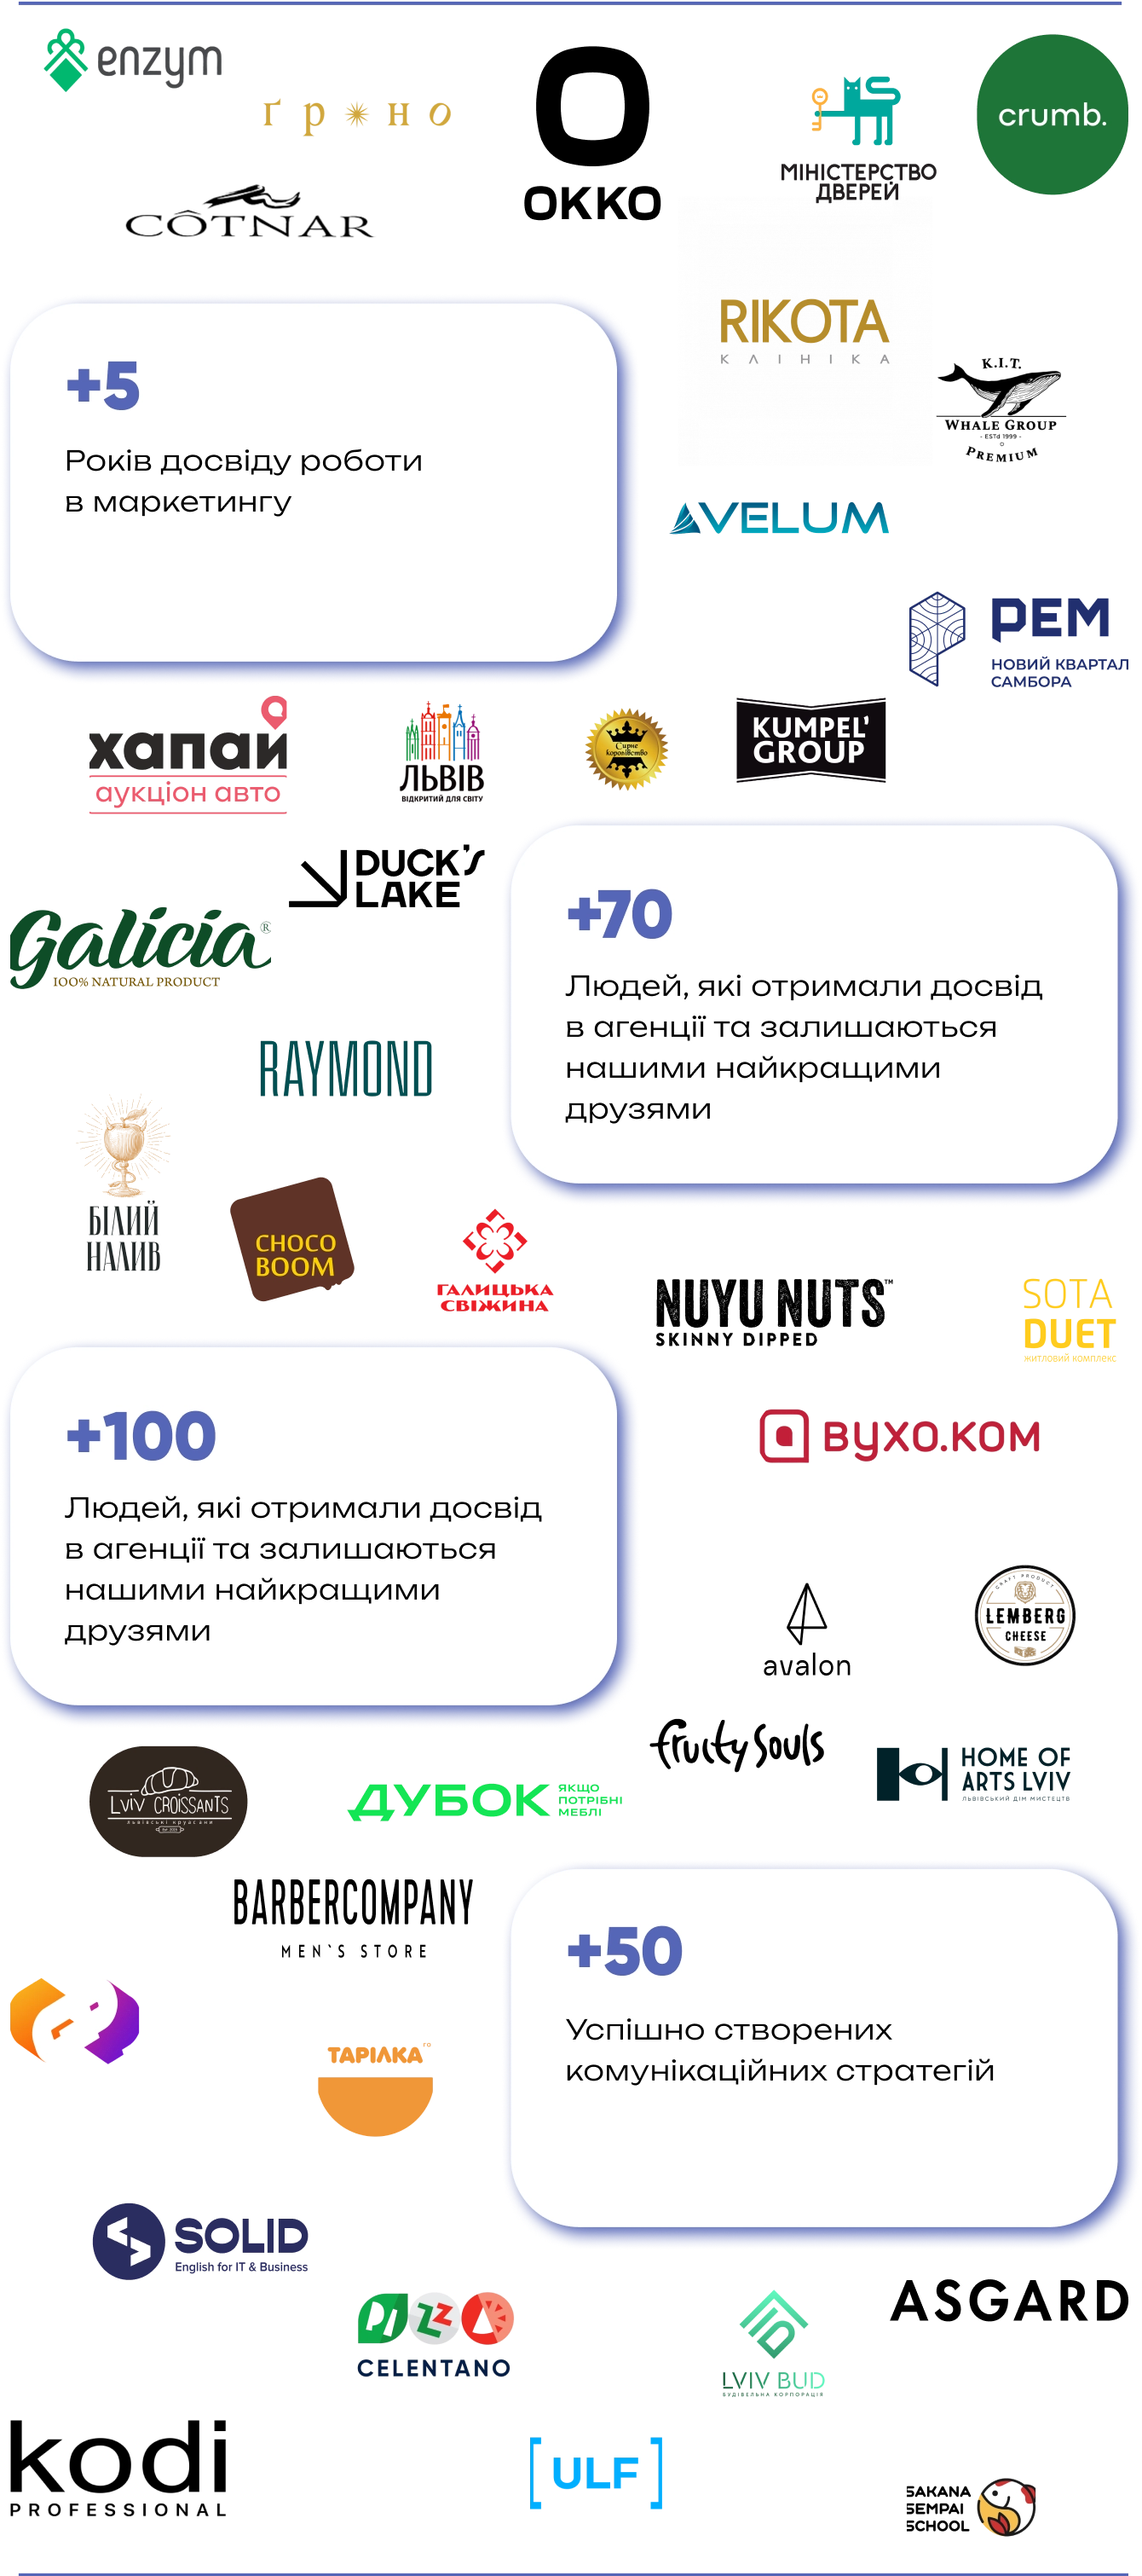
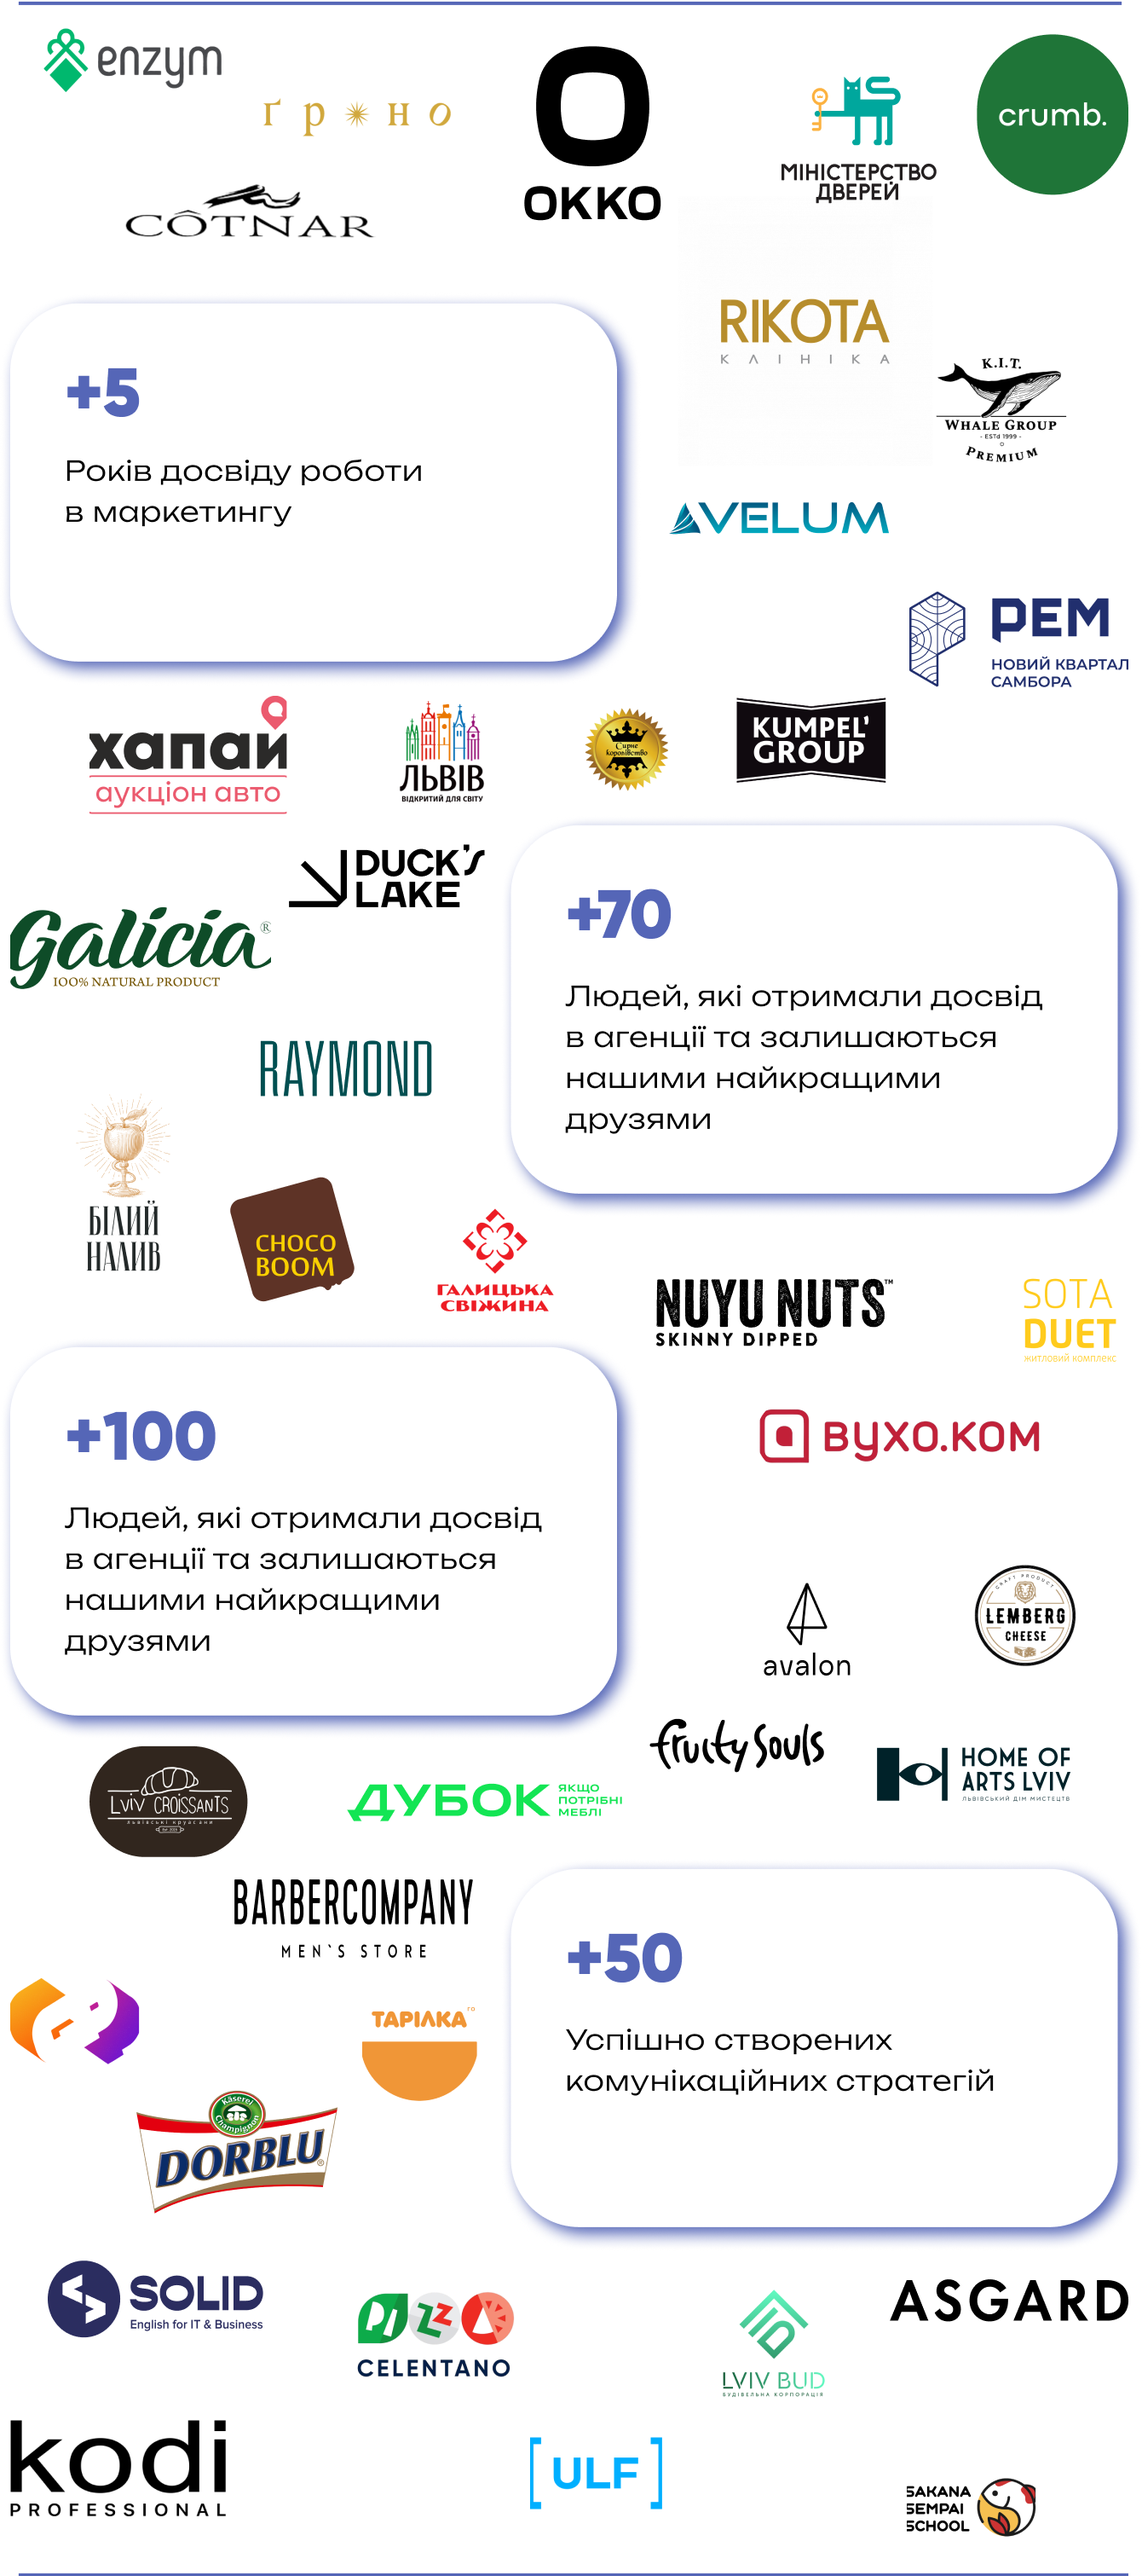
changed partners images + updated team naming

diff --git a/src/Components/TeamContainer.tsx b/src/Components/TeamContainer.tsx
@@ -48,8 +48,7 @@ const TeamContainer = () => {
           additionalClassFoto={styles.teamMemberContainer__member2}
           additionalClassBackground={styles.teamMemberContainer__background2}
           header={"Марта"}
-          text={`сторіс-менеджер, 
-          контент-менеджер, стратег`}
+          text={`арт-директор, стратег`}
         />
         <TeamMemberComponent
           projectNumber={"10+"}
@@ -59,8 +58,7 @@ const TeamContainer = () => {
           additionalClassFoto={styles.teamMemberContainer__member3}
           additionalClassBackground={styles.teamMemberContainer__background3}
           header={"Юлія"}
-          text={`копірайтер, 
-          контент-менеджер, стратег`}
+          text={`СОО, стратег`}
         />
         <TeamMemberComponent
           projectNumber={"50+"}
@@ -101,7 +99,7 @@ const TeamContainer = () => {
           additionalClassFoto={styles.teamMemberContainer__member7}
           additionalClassBackground={styles.teamMemberContainer__background7}
           header={"Валерія"}
-          text={"сторіс-мейкер"}
+          text={"контент-менеджер"}
         />
         <TeamMemberComponent
           projectNumber={"6"}
@@ -113,7 +111,7 @@ const TeamContainer = () => {
           header={"Анна"}
           text={"Копірайтер"}
         />
-        <TeamMemberComponent
+        {/* <TeamMemberComponent
           projectNumber={"22+"}
           favoriteProject={"Okko, Grono, не просто підтримка, Enzym"}
           experience={"4 роки"}
@@ -122,7 +120,7 @@ const TeamContainer = () => {
           additionalClassBackground={styles.teamMemberContainer__background9}
           header={"Аліна"}
           text={"контент-менеджер, стратег"}
-        />
+        /> */}
         <TeamMemberComponent
           projectNumber={"3+"}
           favoriteProject={"Найбільше пишаюсь нашою спільною Джирою😊"}

diff --git a/src/Styling/form.module.scss b/src/Styling/form.module.scss
@@ -94,7 +94,7 @@
    }
    &__title {
       color: #5566b7;
-      font-family: Gilroy-SemiBold;
+      font-family: Gilroy-Bold;
       font-size: 2.5vw;
       line-height: 2.5vw;
       margin-bottom: 1vw;
